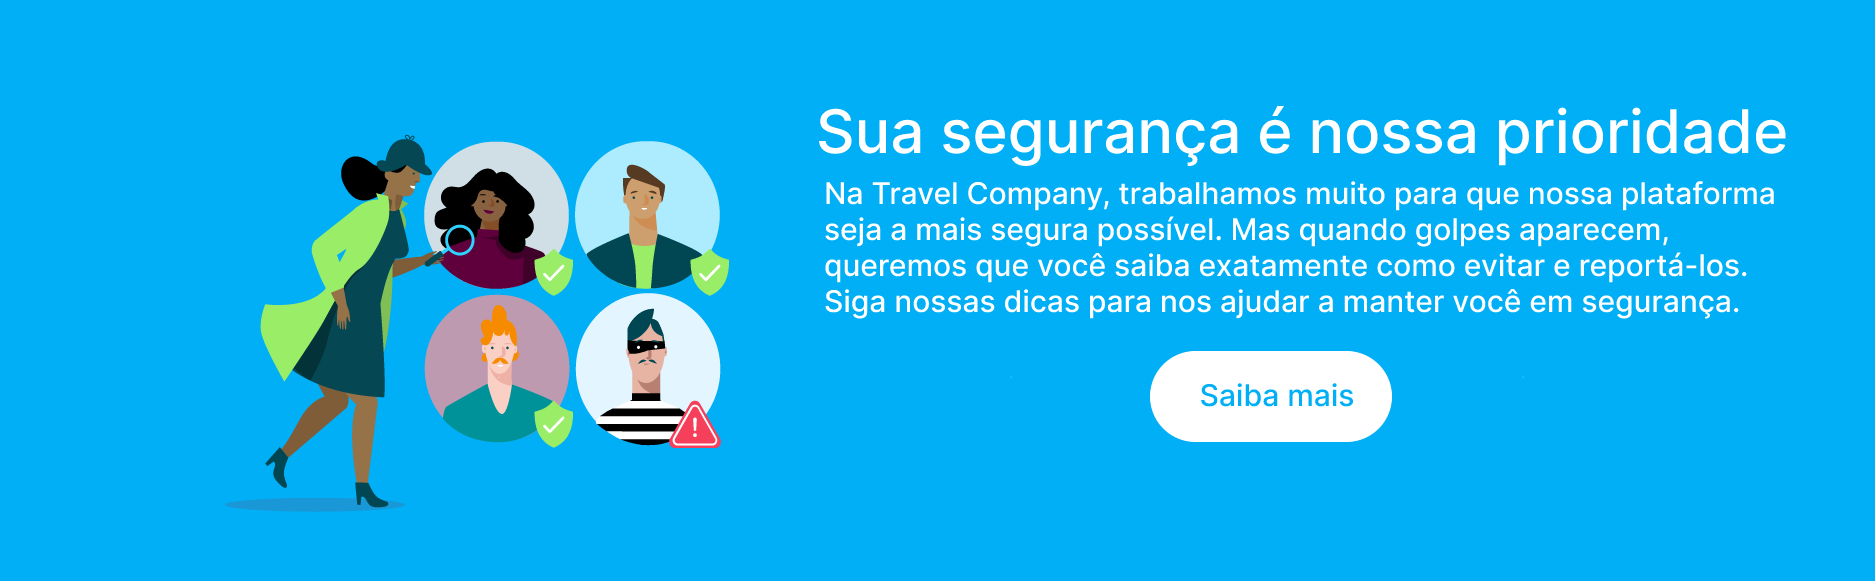
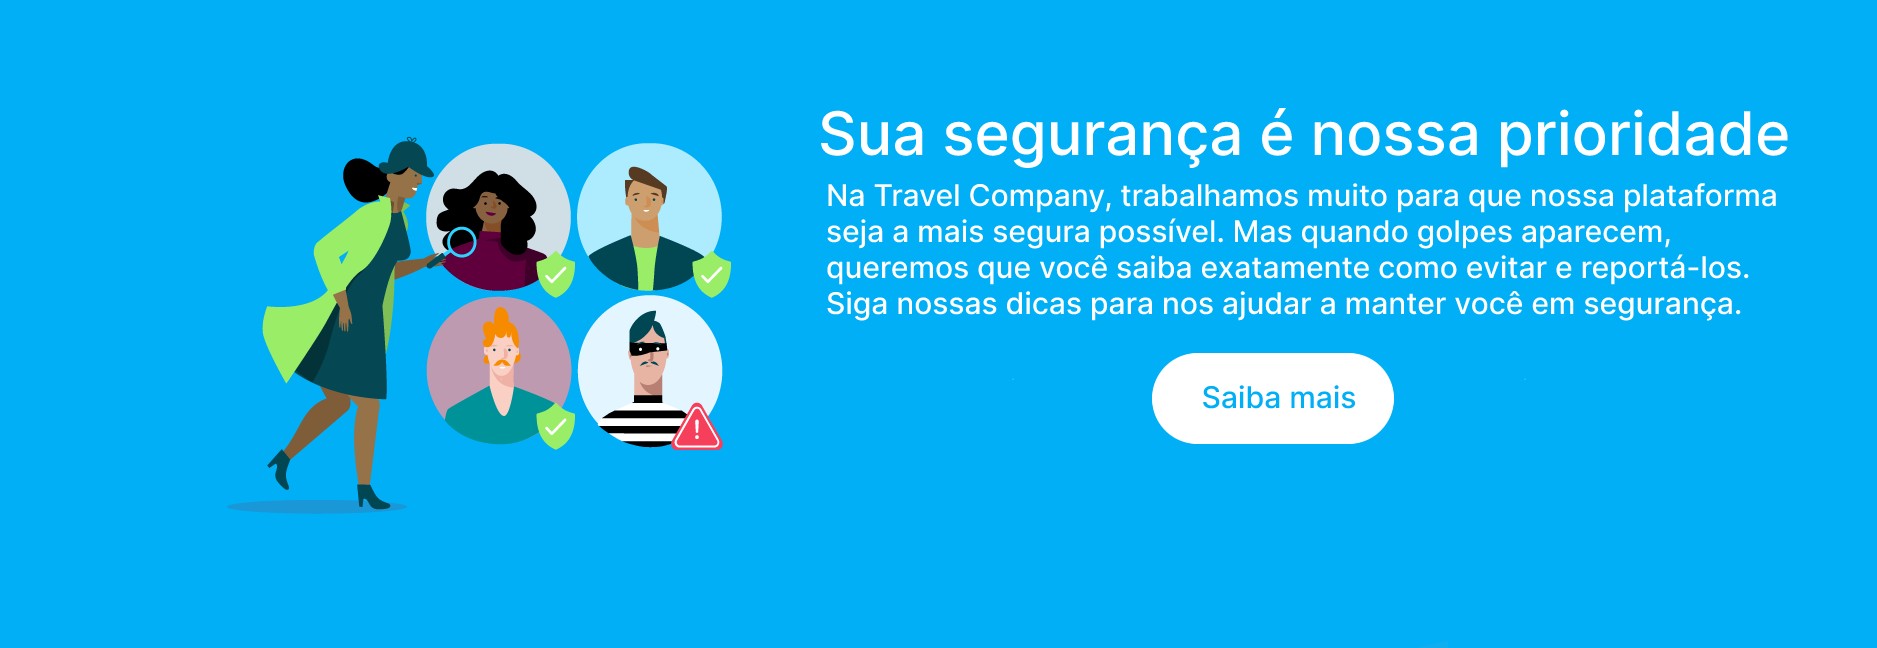
feat: ajuste carousel, imagem, identação e rotas
Ajustado tamanho carousel, tamanho imagem, identação e corrigida rota de login

Changed region(s): [[0.4331, 0.1549, 0.9589, 0.7745], [0.1237, 0.2169, 0.4021, 0.8985]]

diff --git a/resources/views/welcome.blade.php b/resources/views/welcome.blade.php
@@ -2,27 +2,30 @@
 
 @section('content')
 <div class="container">
-<div id="carouselExampleIndicators" class="carousel slide" data-bs-ride="carousel">
-  <div class="carousel-indicators">
-    <button type="button" data-bs-target="#carouselExampleIndicators" data-bs-slide-to="0" class="active" aria-current="true" aria-label="Slide 1"></button>
-    <button type="button" data-bs-target="#carouselExampleIndicators" data-bs-slide-to="1" aria-label="Slide 2"></button>
-  </div>
-  <div class="carousel-inner">
-    <div class="carousel-item active">
-      <img src="{{ asset('images/1slide.png') }}" class="d-block w-100" alt="...">
-    </div>
-    <div class="carousel-item">
-      <img src="{{ asset('images/2slide.png') }}" class="d-block w-100" alt="...">
-    </div>
-  </div>
-  <button class="carousel-control-prev" type="button" data-bs-target="#carouselExampleIndicators" data-bs-slide="prev">
-    <span class="carousel-control-prev-icon" aria-hidden="true"></span>
-    <span class="visually-hidden">Previous</span>
-  </button>
-  <button class="carousel-control-next" type="button" data-bs-target="#carouselExampleIndicators" data-bs-slide="next">
-    <span class="carousel-control-next-icon" aria-hidden="true"></span>
-    <span class="visually-hidden">Next</span>
-  </button>
-</div>
+	<div id="carouselExampleIndicators" class="carousel slide" data-bs-ride="carousel">
+		<div class="carousel-indicators" style="width:100%">
+			<button type="button" data-bs-target="#carouselExampleIndicators" data-bs-slide-to="0" class="active" aria-current="true" aria-label="Slide 1"></button>
+			<button type="button" data-bs-target="#carouselExampleIndicators" data-bs-slide-to="1" aria-label="Slide 2"></button>
+		</div>
+
+		<div class="carousel-inner">
+			<div class="carousel-item active">
+				<img src="{{ asset('images/1slide.png') }}" class="d-block w-100" alt="...">
+			</div>
+			<div class="carousel-item">
+				<img src="{{ asset('images/2slide.png') }}" class="d-block w-100" alt="...">
+			</div>
+		</div>
+
+		<button class="carousel-control-prev" type="button" data-bs-target="#carouselExampleIndicators" data-bs-slide="prev">
+			<span class="carousel-control-prev-icon" aria-hidden="true"></span>
+			<span class="visually-hidden">Previous</span>
+		</button>
+
+		<button class="carousel-control-next" type="button" data-bs-target="#carouselExampleIndicators" data-bs-slide="next">
+			<span class="carousel-control-next-icon" aria-hidden="true"></span>
+			<span class="visually-hidden">Next</span>
+		</button>
+	</div>
 </div>
 @endsection

diff --git a/routes/web.php b/routes/web.php
@@ -25,10 +25,6 @@ Route::get('/edit-profile', function () {
     return view('edit-profile');
 });
 
-Route::get('/travels', function () {
-    return view('travels');
-});
-
 Route::get('/register', function () {
     return view('register');
 });
@@ -45,11 +41,12 @@ Route::get('/travels', function () {
     return view('travels');
 });
 
-Route::get('/travels', function () {
-    return view('travels');
+Route::get('/login', function () {
+    return view('login');
 });
 
-Route::middleware(['auth'])->group(function () {
+
+/*Route::middleware(['auth'])->group(function () {
     Route::get('/home', function () {
         return view('home');
     })->name('home');
@@ -57,4 +54,4 @@ Route::middleware(['auth'])->group(function () {
 
 Route::middleware(['guest'])->group(function () {
     Route::get('/login', 'Auth\LoginController@showLoginForm')->name('login');
-});
+});*/
